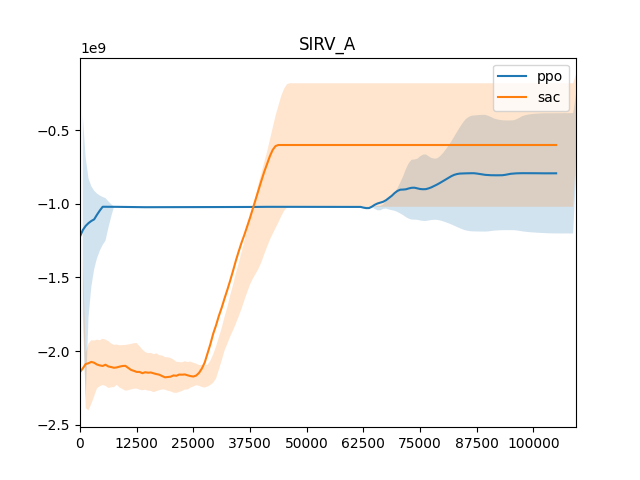
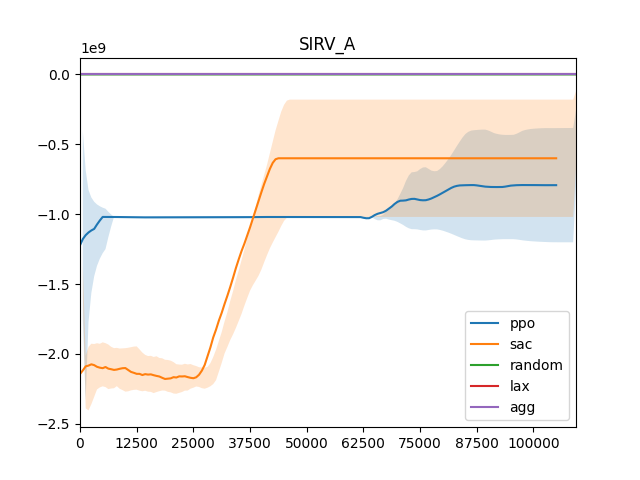
new plots; with ppo, sac, and baselines

diff --git a/plots.py b/plots.py
@@ -122,9 +122,9 @@ def plot(log_dir, only_baselines=False):
         plt.xlim([0, CUT])
         plt.title(scenario)
         plt.legend() 
-        plt.show() 
-        # plt.savefig('plots/'+scenario+'.png') 
-        # plt.close() 
+        # plt.show() 
+        plt.savefig('plots/'+scenario+'_only_baselines.png') 
+        plt.close() 
         # break 
         
 def evaluate(scenario, algo, model_path): 
